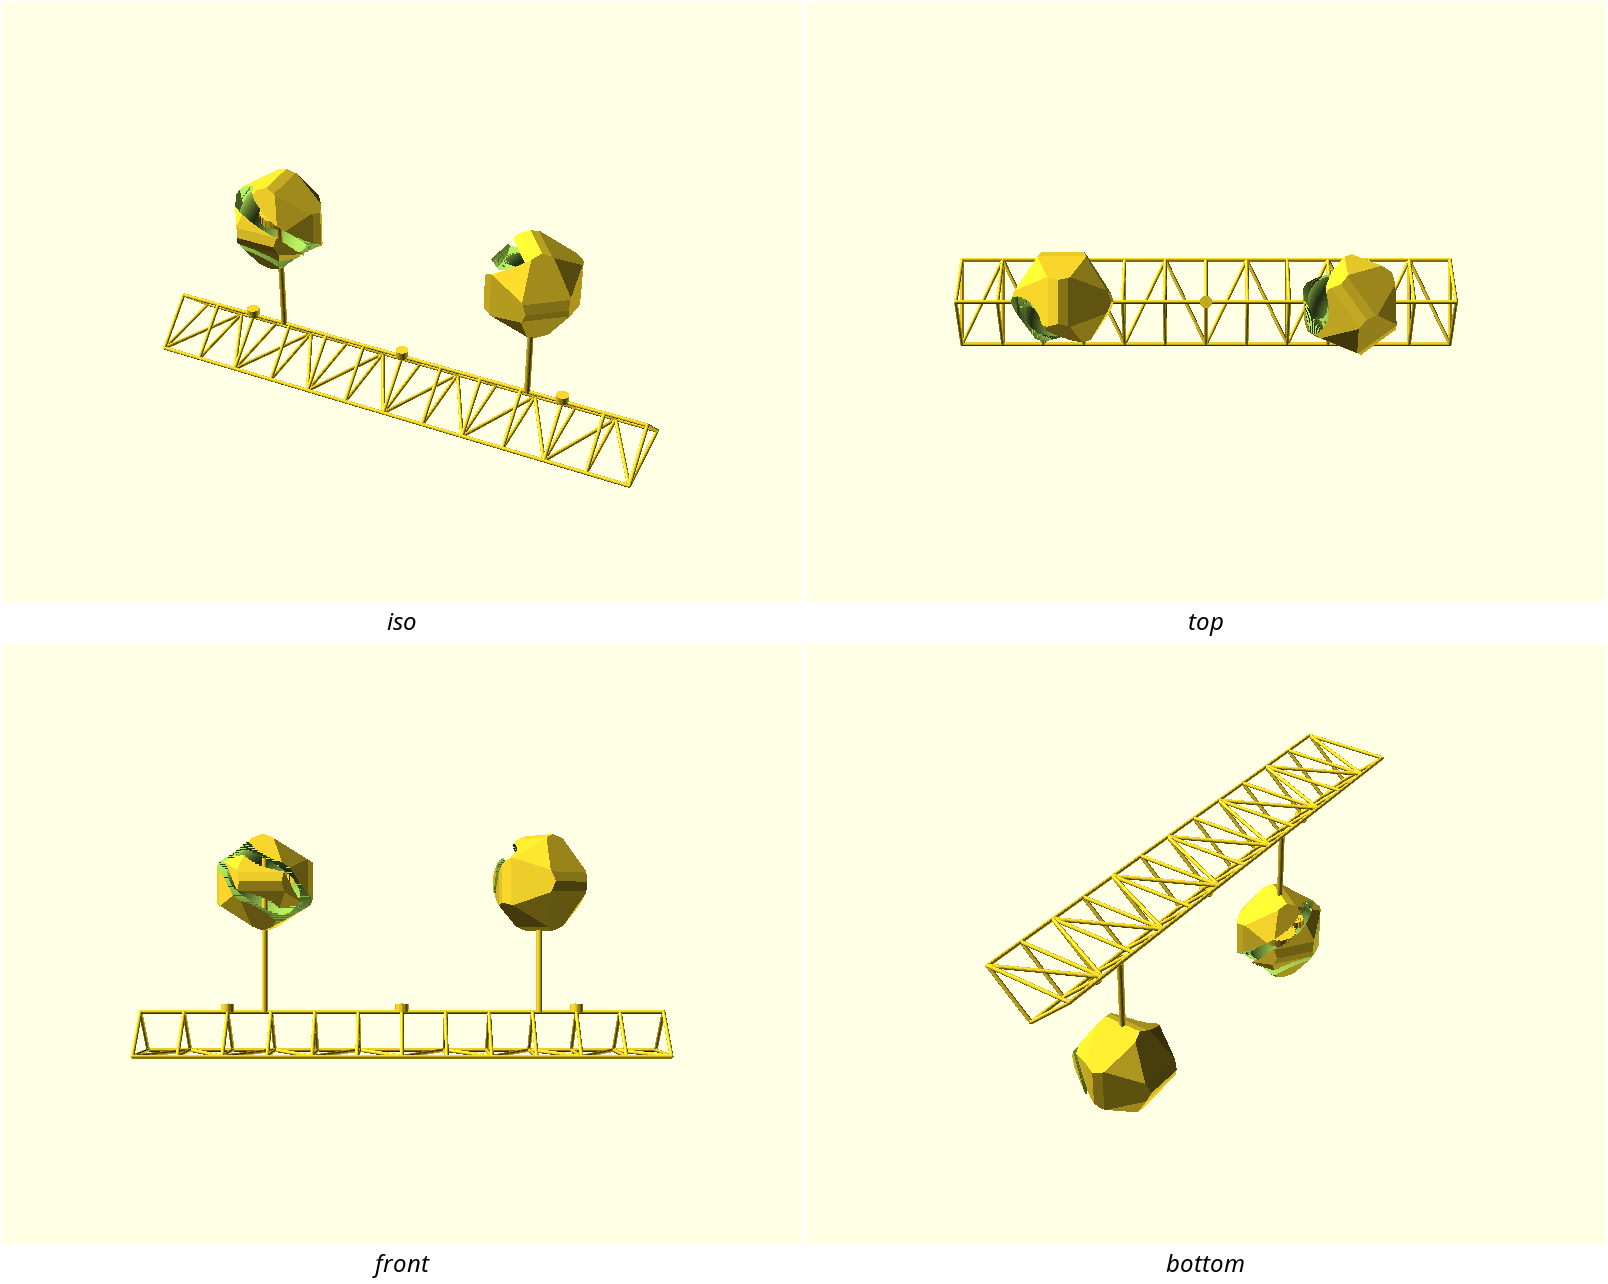
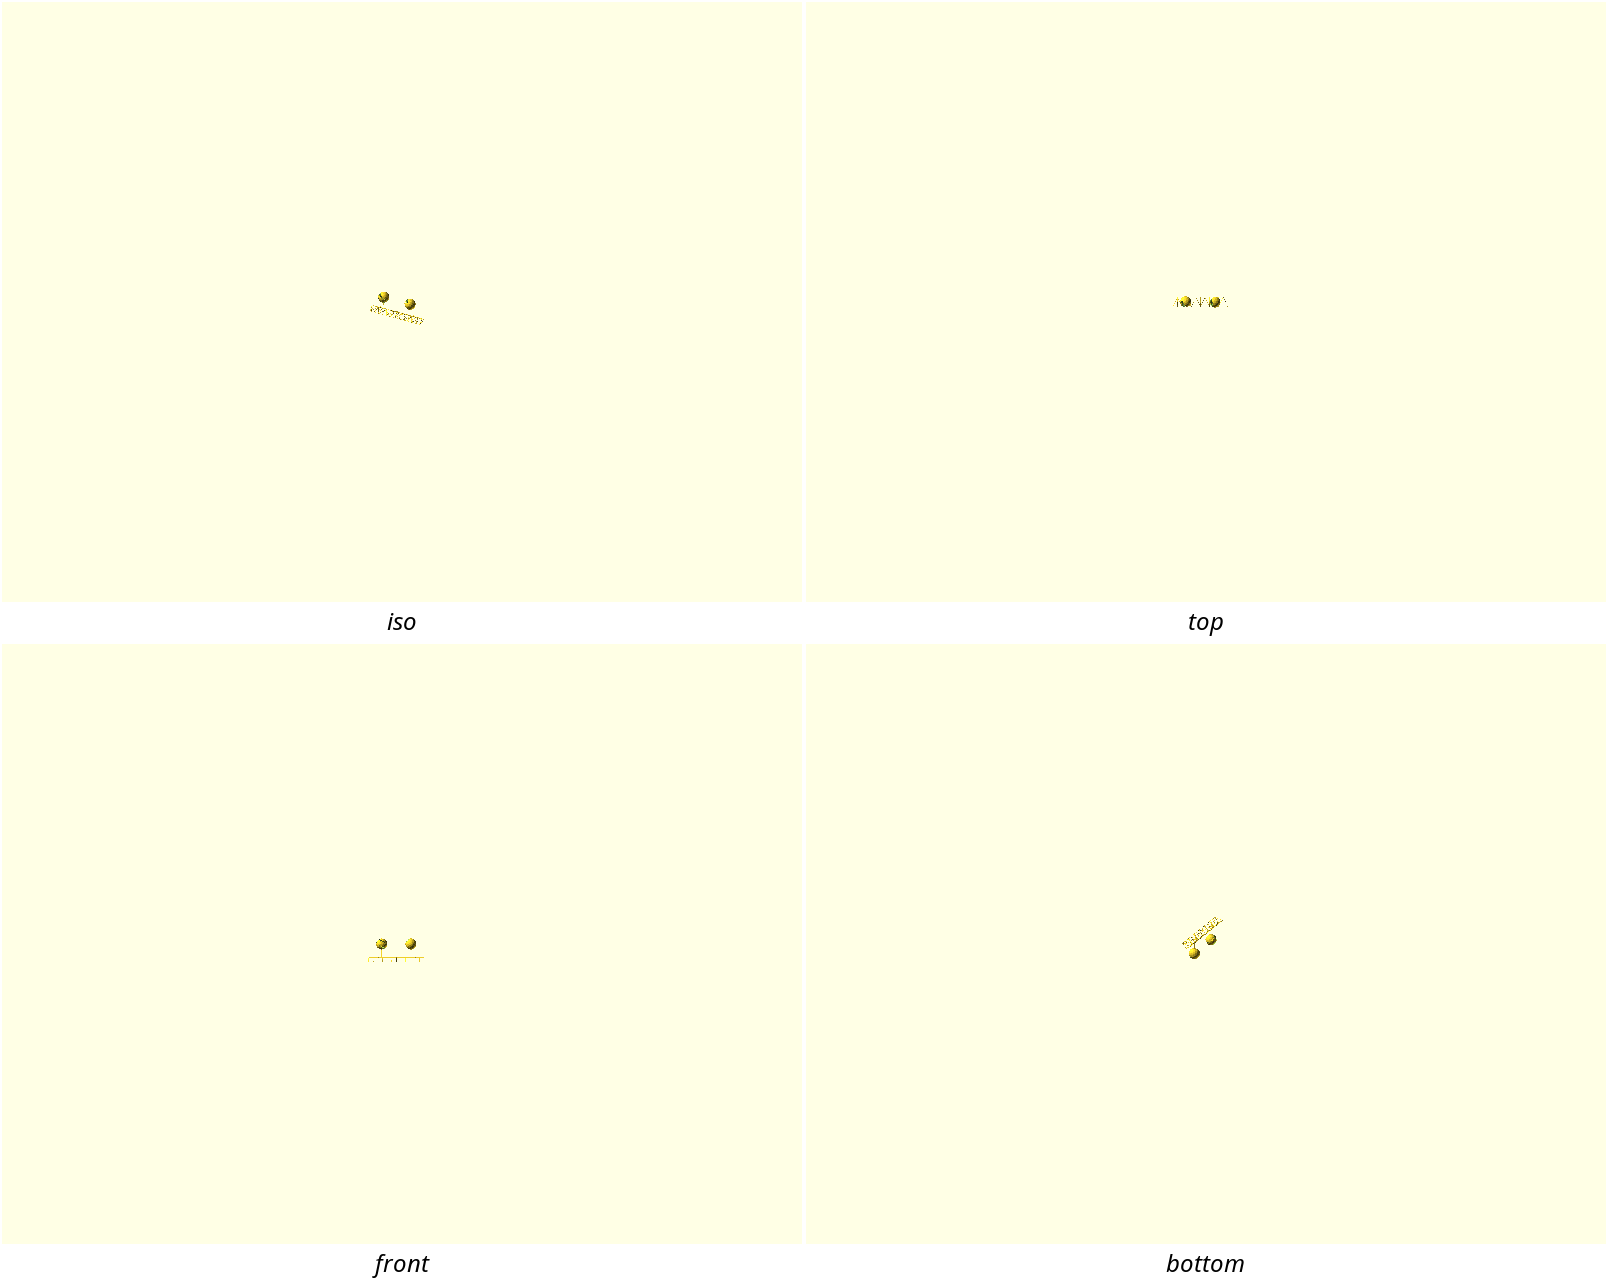
ovodyo: rebuild balls as a true geodesic icosphere (clone fidelity)
The v0 balls were an intersection(dodecahedron, icosahedron) — a coarse
icosidodecahedron (12 pentagons + ~20 big triangles) that read as a chunky
d32, not the reference's fine faceted "dice-ball".

Replace it with a geodesic construction matching the original: subdivide each
of the icosahedron's 20 faces to frequency `facet_freq` (default 3), project
every point to the sphere, hull them into a fine triangular field, then
intersect with 12 vertex-normal planes at r*`plaque` to slice each fivefold
tip into a flat pentagon number-plaque. freq 3 / plaque 0.92 gives the
reference's snub-dodeca-like density with prominent, safe-walled plaques;
glyph_h 9 -> 11 to match the reference's bolder numerals.

Params: facet_mix -> facet_freq + plaque (README table + NOTES updated).
Numerals verified on-plaque and upright; hollowing/hemisphere-split/slot
unchanged. gate.sh --slice ovodyo stays green: hours/minutes-half 84/100,
base-segment + mock-drive 100/100, all watertight, all slice.

Claude-Session: https://claude.ai/code/session_012qZyQcUysDeZprbtZB1rJB

diff --git a/designs/ovodyo/NOTES.md b/designs/ovodyo/NOTES.md
@@ -19,10 +19,16 @@ were produced in-session (design study + `ovodyo-improvement-brainstorm.md`).
 
 ## Key decisions
 
-- **Ball geometry:** intersection of a dodecahedron (its 12 faces are the number
-  plaques) and an icosahedron (its 20 faces cut the triangular field), both built
-  from dual-aligned golden-ratio vertices so the plaques land exactly on the icosa
-  vertices. `facet_mix` tunes the pentagon:triangle balance. Generator is
+- **Ball geometry:** a true geodesic icosphere, matching the reference far more
+  closely than the v0 icosidodecahedron did. Each of the icosahedron's 20
+  triangular faces is subdivided to frequency `facet_freq` (default 3) and every
+  point projected to the sphere; the convex hull of those points is the geodesic
+  ball (a fine triangular field whose only sharp points are the 12 fivefold icosa
+  vertices). Intersecting with 12 planes — one per vertex direction, at radius
+  `r*plaque` — slices each fivefold tip into a flat **pentagon number-plaque**.
+  `facet_freq` sets the triangle fineness (2–3 ≈ the reference's snub-dodeca-like
+  density; 4+ reads too smooth and the plaques dissolve); `plaque` sets plaque
+  size (0.92 gives prominent number faces with a safe wall). Generator is
   `geodesic-ball.scad`, **design-local for now** — issue #600 promotes it to a
   first-party `lib/geodesic-ball.scad` with demo/guards/mates.
 - **Hollowing:** a spherical cavity sized to the plaque inradius minus `wall`, so

diff --git a/designs/ovodyo/README.md b/designs/ovodyo/README.md
@@ -59,9 +59,10 @@ Customizer sections; override with `-D 'name=value'`):
 | Parameter | Default | What it does |
 |---|---|---|
 | `ball_d` | 78 mm | ball outer diameter |
-| `facet_mix` | 1.05 | pentagon/triangle balance (higher = larger number plaques) |
+| `facet_freq` | 3 | geodesic subdivision — higher = finer triangular field, rounder ball |
+| `plaque` | 0.92 | pentagon-plaque plane (fraction of radius) — lower = larger number plaques |
 | `wall` | 2.2 mm | shell wall thickness |
-| `glyph_h` | 9 mm | numeral height |
+| `glyph_h` | 11 mm | numeral height |
 | `slot_width` | 10 mm | helical mechanism-window width |
 | `slot_turns` | 0.5 | how far the slot wraps |
 | `seg_len` | 127 mm | one base-segment length (×3 = 383 mm) |
